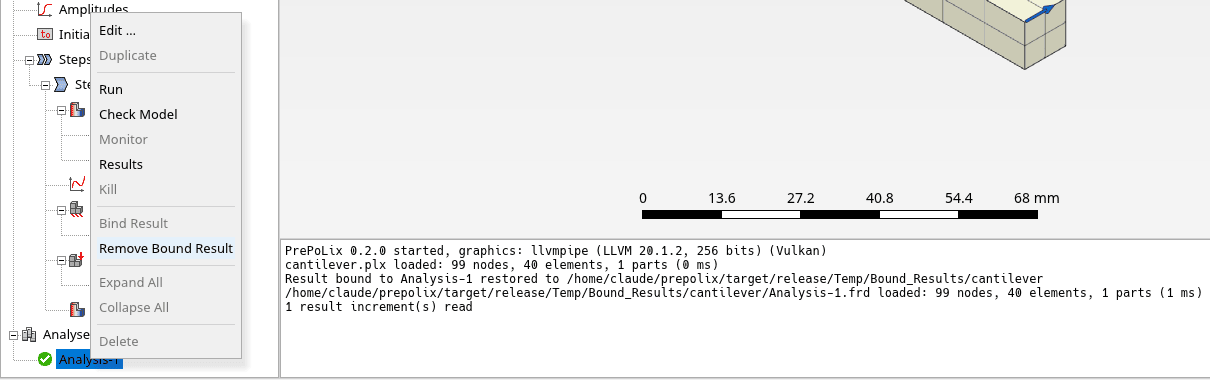
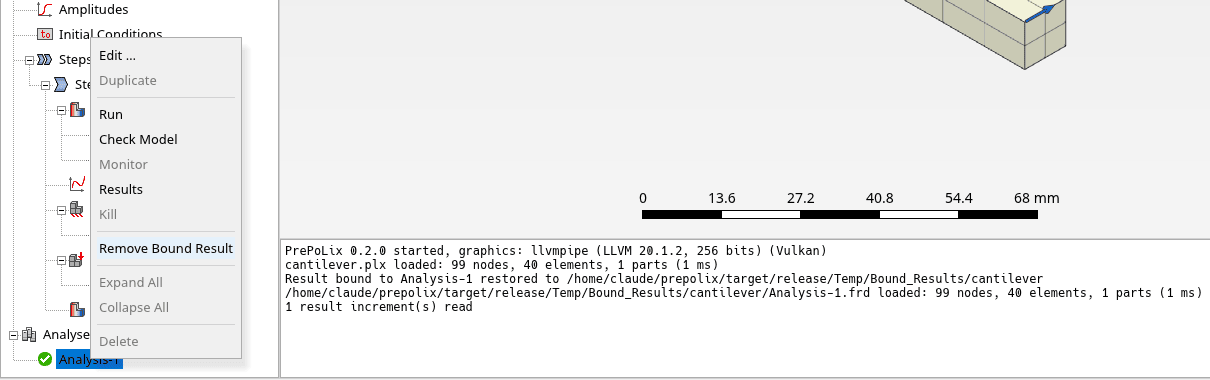
Bind the result automatically when the analysis results are opened
Opening the results of a run (monitor, analysis context menu, Analysis >
Open Results) binds them to the project, once per run; the manual Bind
Result entry is gone. Remove Bound Result and Save Without Results stay.

Claude-Session: https://claude.ai/code/session_01Mzrq9iQu3keLXfmE7szUXs

diff --git a/crates/plx-app/src/app.rs b/crates/plx-app/src/app.rs
@@ -2462,7 +2462,7 @@ impl Workbench {
             )
             .clicked()
         {
-            self.open_results = results;
+            self.open_analysis_results();
         }
         ui.separator();
         let rotor = self
@@ -2527,10 +2527,9 @@ impl Workbench {
                 ),
             },
             AnalysisAction::Results => match self.analysis.as_ref().and_then(Analysis::results) {
-                Some(path) => self.open_results = Some(path),
+                Some(_) => self.open_analysis_results(),
                 None => self.open_bound_results(),
             },
-            AnalysisAction::BindResult => self.bind_results(),
             AnalysisAction::RemoveBoundResult => {
                 if let Some(model) = &mut self.model
                     && model.bound_results.take().is_some()
@@ -2550,20 +2549,30 @@ impl Workbench {
         }
     }
 
+    /// Opens the results of the last run and binds them to the project, once per run.
+    fn open_analysis_results(&mut self) {
+        let Some(path) = self.analysis.as_ref().and_then(Analysis::results) else {
+            return;
+        };
+        self.open_results = Some(path);
+        self.bind_results();
+    }
+
     /// Binds the results of the finished analysis to the project: its input, results and
     /// history output files are saved with the project from now on.
     fn bind_results(&mut self) {
         if self.bound_work.is_some() {
             return;
         }
-        let Some(analysis) = self.analysis.as_ref().filter(|a| !a.is_running()) else {
+        let Some(analysis) = (self.analysis.as_mut()).filter(|a| !a.is_running() && !a.bound)
+        else {
             return;
         };
         let Some(frd) = analysis.results() else {
-            self.output
-                .push("The analysis has no results to bind.".into());
             return;
         };
+        // A result removed from the project is not bound again until the next run.
+        analysis.bound = true;
         let with_errors = analysis.status() == plx_job::JobStatus::FailedWithResults;
         let Some(model) = &self.model else {
             return;
@@ -2743,9 +2752,9 @@ impl Workbench {
             }
         }
         if analysis.monitor
-            && let MonitorEvent::OpenResults(path) = analysis.window(ctx)
+            && let MonitorEvent::OpenResults = analysis.window(ctx)
         {
-            self.open_results = Some(path);
+            self.open_analysis_results();
         }
     }
 

diff --git a/crates/plx-app/src/tree.rs b/crates/plx-app/src/tree.rs
@@ -240,8 +240,6 @@ pub enum AnalysisAction {
     Monitor,
     Results,
     Kill,
-    /// Keep the results of the finished analysis in the project file.
-    BindResult,
     /// Drop the results bound to the project, to share only mesh and definition.
     RemoveBoundResult,
 }
@@ -254,7 +252,7 @@ pub struct JobState {
     pub results: bool,
     /// Results are bound to the project.
     pub bound: bool,
-    /// The analysis ran since the program started; its results can be bound.
+    /// The analysis ran since the program started; its monitor can be shown.
     pub ran: bool,
 }
 
@@ -967,15 +965,8 @@ impl Tree<'_> {
         action(ui, results, "Results", AnalysisAction::Results);
         action(ui, running, "Kill", AnalysisAction::Kill);
         ui.separator();
-        // Not in PrePoMax, which saves results with the project as a whole.
+        // Results opened from the analysis are bound to the project and saved with it.
         let bound = self.job.is_some_and(|j| j.bound);
-        let finished = self.job.is_some_and(|j| j.ran && j.results);
-        action(
-            ui,
-            finished && !running,
-            "Bind Result",
-            AnalysisAction::BindResult,
-        );
         action(
             ui,
             bound,

diff --git a/crates/plx-app/src/analysis.rs b/crates/plx-app/src/analysis.rs
@@ -23,11 +23,14 @@ pub struct Analysis {
     finished: Option<f32>,
     status: JobStatus,
     pub monitor: bool,
+    /// The results of this run were bound to the project when they were opened.
+    pub bound: bool,
 }
 
 pub enum MonitorEvent {
     None,
-    OpenResults(PathBuf),
+    /// Open the results of the run.
+    OpenResults,
 }
 
 /// Copies the results file of a submodel's global model next to the input file `<name>.inp`
@@ -133,6 +136,7 @@ impl Analysis {
             finished: None,
             status: JobStatus::Running,
             monitor: true,
+            bound: false,
         })
     }
 
@@ -265,9 +269,8 @@ impl Analysis {
                     if ui
                         .add_enabled(results.is_some(), egui::Button::new("Results"))
                         .clicked()
-                        && let Some(path) = results
                     {
-                        event = MonitorEvent::OpenResults(path);
+                        event = MonitorEvent::OpenResults;
                     }
                 });
             });
